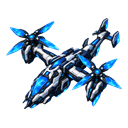
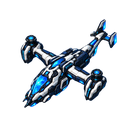
fly finish run

Changed region(s): [[0.0312, 0.125, 0.9688, 0.875]]

diff --git a/new-design/build-nhaw-animation.py b/new-design/build-nhaw-animation.py
@@ -1,0 +1,120 @@
+"""Build the two-rotor helicopter sprites from the supplied layers (Pillow)."""
+
+from pathlib import Path
+
+from PIL import Image, ImageChops, PngImagePlugin
+
+
+ROOT = Path(__file__).resolve().parents[1]
+SOURCE = ROOT / "new-design/source-assets/reignition-nhaw/large"
+OUTPUT = ROOT / "mods/reignition/bits"
+FRAME_SIZE = 128
+FAST_FRAME_COUNT = 24
+SLOW_FRAME_COUNT = 12
+SHEET_COLUMNS = 12
+FAST_STEP_DEGREES = 75
+BODY_OFFSET = (40, 0)
+HUBS = ((268, 254), (855, 561))
+CANVAS_SIZE = (1140, 1050)
+RESAMPLE = Image.Resampling.LANCZOS
+
+
+def alpha_scaled(image, opacity):
+    result = image.copy()
+    result.putalpha(image.getchannel("A").point(lambda value: round(value * opacity)))
+    return result
+
+
+def build():
+    body = Image.open(SOURCE / "nhaw-body.png").convert("RGBA")
+    blade = Image.open(SOURCE / "nhaw-rotor.png").convert("RGBA")
+    assert body.size == (1024, 1024) and blade.size == (974, 974)
+    # The source's lower-left label is outside the aircraft.
+    body.paste((0, 0, 0, 0), (0, 922, 276, 1024))
+    body_canvas = Image.new("RGBA", CANVAS_SIZE)
+    body_canvas.alpha_composite(body, BODY_OFFSET)
+
+    # Center on the source rotor hub, then rectify its diagonal axis before
+    # applying rotation and the foreshortening of a horizontal rotor disk.
+    centered = Image.new("RGBA", (1500, 1500))
+    centered.alpha_composite(blade, (750 - 474, 750 - 505))
+    centered = centered.rotate(-45, resample=Image.Resampling.BICUBIC)
+    centered = centered.resize((480, 480), RESAMPLE)
+
+    def rotor_at(angle):
+        return centered.rotate(angle, resample=Image.Resampling.BICUBIC).resize((480, 250), RESAMPLE)
+
+    def overlay(frame, fast):
+        result = Image.new("RGBA", CANVAS_SIZE)
+        for hub, direction in zip(HUBS, (1, -1)):
+            # Keep one displayed frame per engine tick. A shorter sequence tick
+            # skips frames and can make two-bladed rotors appear to slow/reverse.
+            step = FAST_STEP_DEGREES if fast else 360 / SLOW_FRAME_COUNT
+            angle = direction * frame * step
+            disk = Image.new("RGBA", (480, 250))
+            if fast:
+                for lag, opacity in ((50, 0.08), (40, 0.10), (30, 0.13), (20, 0.18), (10, 0.25)):
+                    disk.alpha_composite(alpha_scaled(rotor_at(angle - direction * lag), opacity))
+            disk.alpha_composite(rotor_at(angle))
+            result.alpha_composite(disk, (hub[0] - 240, hub[1] - 125))
+        return result
+
+    overlays = [overlay(frame, True) for frame in range(FAST_FRAME_COUNT)]
+    overlays += [overlay(frame, False) for frame in range(SLOW_FRAME_COUNT)]
+    # Use one common crop/scale for every layer so neither hub can drift.
+    union = body_canvas.getchannel("A")
+    for image in overlays:
+        union = ImageChops.lighter(union, image.getchannel("A"))
+    left, top, right, bottom = union.getbbox()
+    bounds = (max(0, left - 3), max(0, top - 3), min(CANVAS_SIZE[0], right + 3), min(CANVAS_SIZE[1], bottom + 3))
+    scale = min(116 / (bounds[2] - bounds[0]), 116 / (bounds[3] - bounds[1]))
+    size = (round((bounds[2] - bounds[0]) * scale), round((bounds[3] - bounds[1]) * scale))
+    position = ((FRAME_SIZE - size[0]) // 2, (FRAME_SIZE - size[1]) // 2)
+
+    def fit(image):
+        result = Image.new("RGBA", (FRAME_SIZE, FRAME_SIZE))
+        result.alpha_composite(image.crop(bounds).resize(size, RESAMPLE), position)
+        return result
+
+    body_frame = fit(body_canvas)
+    frames = [fit(image) for image in overlays]
+    OUTPUT.mkdir(parents=True, exist_ok=True)
+    body_frame.save(OUTPUT / "reignition-mh60.png")
+    rows = (len(frames) + SHEET_COLUMNS - 1) // SHEET_COLUMNS
+    sheet = Image.new("RGBA", (FRAME_SIZE * SHEET_COLUMNS, FRAME_SIZE * rows))
+    for index, frame in enumerate(frames):
+        sheet.alpha_composite(frame, ((index % SHEET_COLUMNS) * FRAME_SIZE, (index // SHEET_COLUMNS) * FRAME_SIZE))
+    metadata = PngImagePlugin.PngInfo()
+    metadata.add_text("FrameSize", "128,128")
+    metadata.add_text("FrameAmount", str(len(frames)))
+    metadata.add_text("Offset", "0,0")
+    sheet.save(OUTPUT / "reignition-mh60-rotors.png", pnginfo=metadata)
+
+    full = Image.alpha_composite(body_canvas, overlays[FAST_FRAME_COUNT])
+    icon = full.crop(bounds)
+    icon.thumbnail((58, 44), RESAMPLE)
+    icon_frame = Image.new("RGBA", (64, 48))
+    icon_frame.alpha_composite(icon, ((64 - icon.width) // 2, (48 - icon.height) // 2))
+    icon_frame.save(OUTPUT / "reignition-mh60-icon.png")
+
+    previews = []
+    for frame in frames[:FAST_FRAME_COUNT]:
+        composite = Image.alpha_composite(body_frame, frame)
+        background = Image.new("RGBA", composite.size, (22, 30, 39, 255))
+        background.alpha_composite(composite)
+        previews.append(background.convert("RGB").resize((384, 384), Image.Resampling.NEAREST))
+    previews[0].save(
+        ROOT / "new-design/nhaw-rotor-preview.gif",
+        save_all=True, append_images=previews[1:], duration=40, loop=0, disposal=2,
+    )
+    # Ensure there is actual animation, and nothing touches a frame's edges.
+    assert FAST_FRAME_COUNT * FAST_STEP_DEGREES % 360 == 0
+    assert len({frame.tobytes() for frame in frames[:FAST_FRAME_COUNT]}) == FAST_FRAME_COUNT
+    for frame in [body_frame, *frames]:
+        box = frame.getbbox()
+        assert box and box[0] > 0 and box[1] > 0 and box[2] < FRAME_SIZE and box[3] < FRAME_SIZE
+    print("Built aligned helicopter body, 24 fast + 12 slow rotor frames, icon and animated preview.")
+
+
+if __name__ == "__main__":
+    build()

diff --git a/mods/reignition/README.md b/mods/reignition/README.md
@@ -149,6 +149,16 @@ inherited RA rules.
 The original Hind remains an editor/campaign unit, with the Black Hawk filling
 the normal buildable helicopter role.
 
+The Black Hawk (`MH60`) uses the layered `reignition-nhaw` design: both rotors
+counter-rotate above a static body, with 24 fast airborne frames (40 ms/frame,
+75 degrees per frame, five revolutions per loop) and motion trails
+and 12 slow grounded frames (120 ms/frame). Both layers use the same alignment
+and scale. Rebuild the body, rotor sheet and production icon using Pillow:
+`python new-design/build-nhaw-animation.py`. Source layers are stored in
+`new-design/source-assets/reignition-nhaw/large`; the script also writes
+`new-design/nhaw-rotor-preview.gif`. The generic static-unit asset builder
+excludes this helicopter so it cannot overwrite the animated version.
+
 Previously disabled advanced ground units are also restored to their inherited
 technology and faction prerequisites. Existing Reignition art overrides remain
 in place; restored buildings and aircraft without custom artwork use RA assets.

diff --git a/new-design/daxia-unit-audit.md b/new-design/daxia-unit-audit.md
@@ -22,7 +22,7 @@ prerequisites without changing those original support actors.
 | `nu_dest` | `DD` | Already available: naval yard + radar; includes depth charges |
 | `nu_harv` | `HARV` | Already available: vehicle works; refinery also supplies a harvester |
 | `nu_howz` | `ARTY` | Already available: vehicle works + radar |
-| `nu_nhaw` | `MH60` | Already available: helipad; currently a gunship, not a troop transport |
+| `nu_nhaw` → layered `reignition-nhaw` | `MH60` | Helipad; new body and counter-rotating dual rotors; currently a gunship, not a troop transport |
 
 All 12 supplied designs are represented by producible Daxia units on the
 bundled Conquest maps and Rift Outpost. High-tier units still require the
